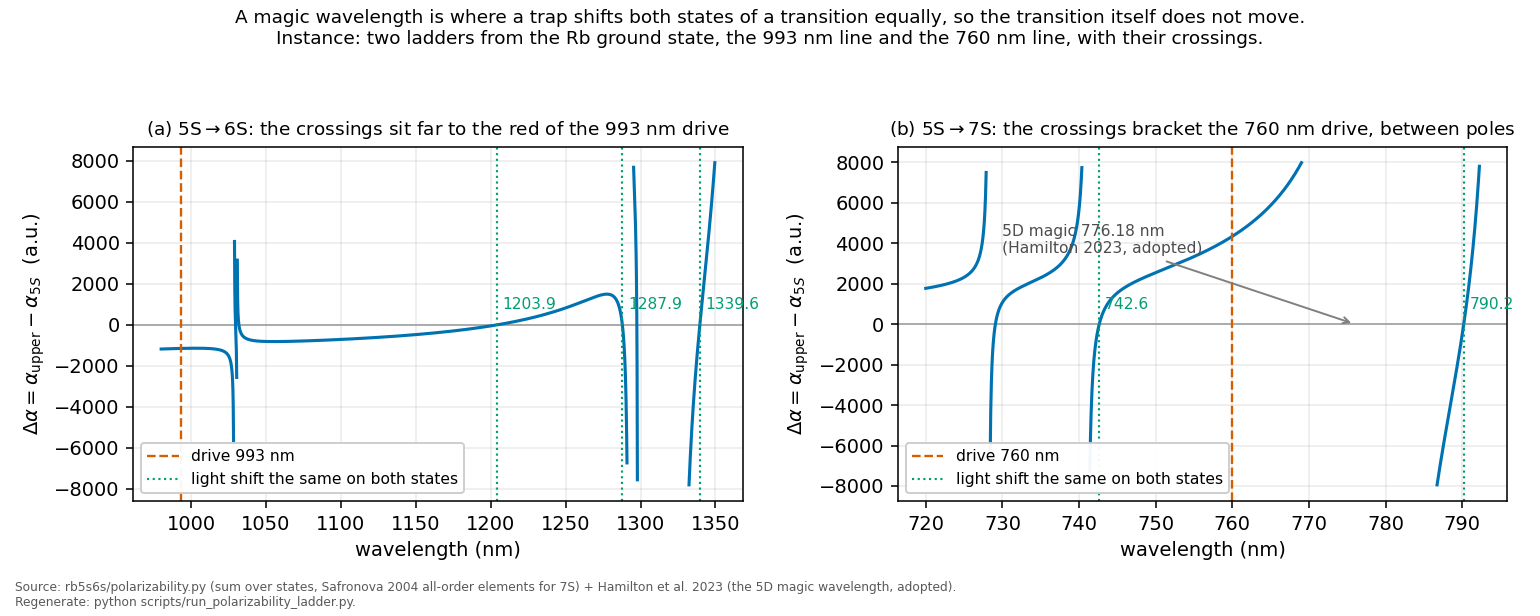
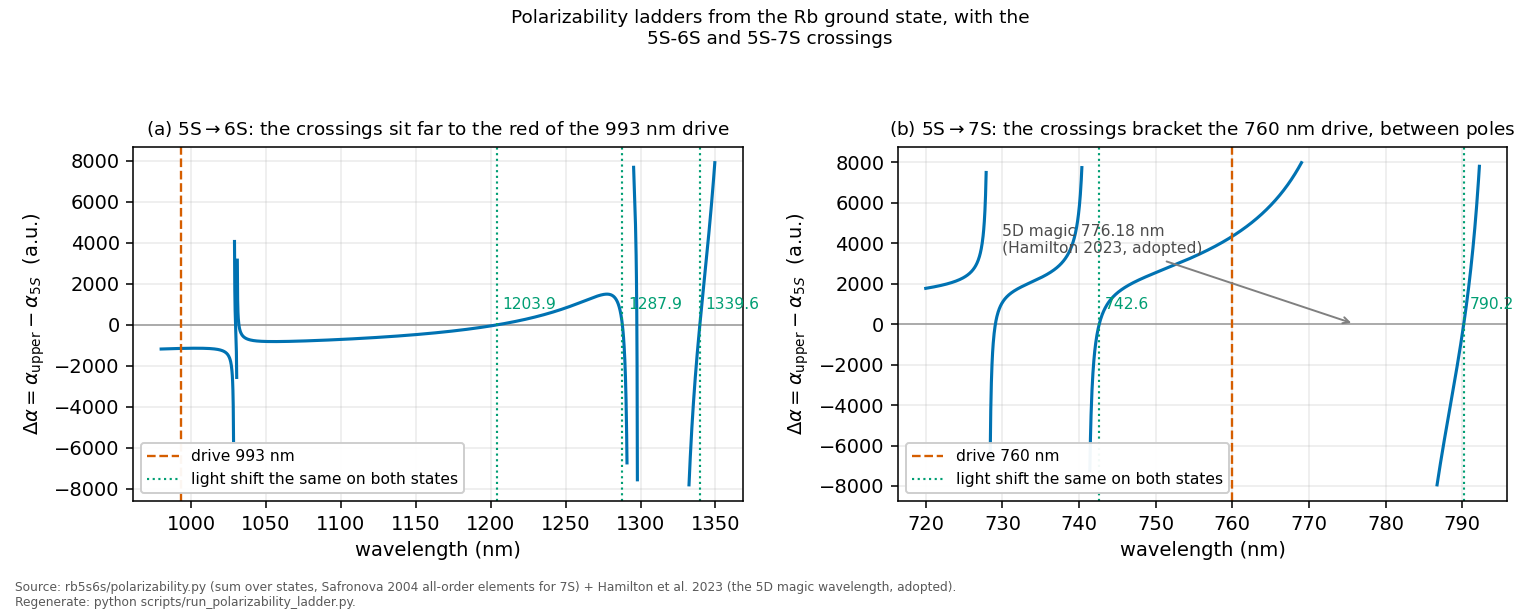
Write the night's lessons into the rules that enforce them
Every finding of the last two days that could return is now either a guard or a
line in the style guide, because the one rule that failed hardest this week was
already written down and simply not kept.

The style guide gains the measured GitHub maths rule, which replaces a sentence
saying that inline maths renders inconsistently. It does not render
inconsistently. It renders unless the delimiter touches a letter or a digit,
which was established by rendering probe documents through GitHub's own
markdown endpoint. The guide also gains the rule that a quotation is never
altered to satisfy a rendering rule, and the warning that matplotlib mathtext
is not markdown, since applying the one rule to the other would break every
unit on every axis.

It gains a figures section: an axis label is a quantity and a unit, a title
states what is plotted rather than what it proves, the caveat moves to the
caption and has to arrive there, a caption asserts only what its panels draw,
and a figure is redrawn only in a tree whose results are clean.

The guide also stopped contradicting itself. It listed the em-dash as approved
Unicode while the prose ratchet forbids it, and used thirteen of them while
telling the reader not to. It now uses none, and its recorded budget falls from
thirteen to three.

tests/test_figure_register.py gains the label rule as a check rather than a
sentence: an axis label over sixty-two characters, a title over a hundred and
[…]

Changed region(s): [[0.1558, 0.0, 0.8416, 0.0925]]

diff --git a/tests/test_figure_register.py b/tests/test_figure_register.py
@@ -242,3 +242,71 @@ def test_footer_helper_is_the_only_provenance_route(target):
             stray.append(f"{target.name}:{node.lineno}: fig.text(...) carries a "
                          "regenerate line outside _footer(...)")
     assert not stray, "\n  ".join(stray)
+
+
+# --------------------------------------------------------------------------
+# An axis label is a quantity and a unit (protocol section 12.1)
+# --------------------------------------------------------------------------
+# The census of 2026-08-09 found 156 of 235 label strings carrying caption
+# material: one x label read "beam waist (um). This has not been measured. The
+# knife-edge scan is pending.", five residual axes read "residual, in units of
+# the point error", and one suptitle ran to seven lines and argued its own
+# conclusion. The rule had been written in the protocol for months and was not
+# kept, which is why it is a test now. Titles are held to a longer limit than
+# axis labels, because a title may name the conditions.
+_AXIS_SETTERS = {"set_xlabel", "set_ylabel"}
+_TITLE_SETTERS = {"set_title", "suptitle"}
+_AXIS_MAX = 62
+_TITLE_MAX = 110
+# A sentence inside a label: a full stop or a semicolon followed by a space and
+# a word. The lookbehind keeps a decimal out of it, which matters because an
+# f-string flattens "993.{pk} nm" to "993. nm" and that is a wavelength, not a
+# sentence. Found by this guard's own first run.
+_LABEL_SENTENCE = re.compile(r"(?<!\d)[.;]\s+[A-Za-z]")
+# Words that state a status, a judgement or an argument rather than a quantity.
+_LABEL_PROSE = [
+    r"\bnot been measured\b", r"\bis pending\b", r"\bin units of\b",
+    r"\bremains open\b", r"\bmeasured directly\b", r"\bconservative\b",
+    r"\bupper bounds?\b", r"\brather than\b", r"\bwhich is\b",
+    r"\bso that\b", r"\bbecause\b",
+]
+
+
+def _label_calls(tree: ast.AST):
+    """Yields (attr, literal, lineno) for every axis-label and title call."""
+    for node in ast.walk(tree):
+        if not (isinstance(node, ast.Call) and isinstance(node.func, ast.Attribute)):
+            continue
+        attr = node.func.attr
+        if attr not in _AXIS_SETTERS | _TITLE_SETTERS:
+            continue
+        for arg in node.args[:1]:
+            if isinstance(arg, ast.Constant) and isinstance(arg.value, str):
+                yield attr, arg.value, arg.lineno
+            elif isinstance(arg, ast.JoinedStr):
+                lit = "".join(v.value for v in arg.values
+                              if isinstance(v, ast.Constant)
+                              and isinstance(v.value, str))
+                yield attr, lit, arg.lineno
+
+
+@pytest.mark.parametrize("target", TARGETS, ids=lambda p: p.name)
+def test_axis_labels_are_a_quantity_and_a_unit(target):
+    tree = ast.parse(target.read_text(encoding="utf-8"), filename=str(target))
+    bad = []
+    for attr, lit, ln in _label_calls(tree):
+        flat = " ".join(lit.split())
+        limit = _AXIS_MAX if attr in _AXIS_SETTERS else _TITLE_MAX
+        if len(flat) > limit:
+            bad.append(f"{target.name}:{ln}: {attr} is {len(flat)} characters, "
+                       f"over {limit}: {flat[:70]!r}. An axis label is a "
+                       f"quantity and a unit. The rest belongs in the caption "
+                       f"of the document that shows the figure.")
+        if attr in _AXIS_SETTERS and _LABEL_SENTENCE.search(flat):
+            bad.append(f"{target.name}:{ln}: {attr} contains a sentence: "
+                       f"{flat[:70]!r}. Caveats go in the caption.")
+        for pat in _LABEL_PROSE:
+            if re.search(pat, flat, re.I):
+                bad.append(f"{target.name}:{ln}: {attr} carries prose "
+                           f"({pat}): {flat[:70]!r}")
+    assert not bad, "figure labels carrying caption material:\n  " + "\n  ".join(bad)

diff --git a/scripts/make_figures.py b/scripts/make_figures.py
@@ -816,6 +816,17 @@ def fig_ruler():
     figure bug: the figure is skipped, the census is printed, and
     tests/test_ruler.py::test_fig8_candidate_set_is_not_empty says so out
     loud."""
+    # This panel rebuilds a block law from the raw traces, which travel with
+    # the working record rather than with every checkout. Without them the
+    # loader used to raise FileNotFoundError from inside the block rebuild,
+    # which killed the whole run and left every figure after this one in
+    # main()'s order undrawn. Since the footer on every figure tells a reader
+    # to run this script, that traceback was the first thing a fresh clone saw.
+    # Skip the way fig13 skips its photograph, and keep the committed PNG.
+    if not (C.DATA_RAW_DIR / "rulers_p").is_dir():
+        print("  (raw ruler traces not in this checkout, keeping the "
+              "existing fig8 PNG)")
+        return
     from rb5s6s.ruler import _comb, TEETH
 
     def _sixth(r):
@@ -1039,8 +1050,8 @@ def fig_degeneracy_vs_observable():
     ax1.text(gg[-1], 0.02, "unphysical below", fontsize=6, color="0.3",
              ha="right", va="bottom")
     ax1.set_ylim(min(-0.25, ss[0]), ss[-1])
-    ax1.set_title("(a) the fitted collisional and laser FWHM, with one-sigma\n"
-                  "ellipses, over grey contours of constant total FWHM in MHz",
+    ax1.set_title("(a) fitted collisional and laser FWHM, one-sigma ellipses\n"
+                  "over contours of constant total FWHM (MHz)",
                   fontsize=8.5)
     ax1.legend(fontsize=7, framealpha=1.0, frameon=True)
     ax1.grid(alpha=0.25, lw=0.5)
@@ -1691,8 +1702,8 @@ def fig_drift_story():
         ax.axvline(tk, color="0.55", lw=0.7, alpha=0.6)
     ax.set_xlabel("time (min)")
     ax.set_ylabel("laser detuning (MHz)")
-    ax.set_title("(a) the laser frequency during the 2025-06-11 preliminary session,\n"
-                 "digitised from a photograph of the wavemeter display",
+    ax.set_title("(a) laser frequency, 2025-06-11 preliminary session,\n"
+                 "digitised from the wavemeter display",
                  fontsize=9)
     ax.legend(fontsize=7, loc="lower right", framealpha=1.0, frameon=True)
 
@@ -1765,8 +1776,8 @@ def fig_drift_story():
     ins.patch.set_alpha(0.95)
     ax.set_xlabel("time into campaign (h)")
     ax.set_ylabel("laser detuning (MHz)", fontsize=8.5)
-    ax.set_title("(b) line centre within each oscilloscope window setting, through\n"
-                 "the campaign, reconstructed from its own traces",
+    ax.set_title("(b) line centre per oscilloscope window setting,\n"
+                 "reconstructed across the campaign",
                  fontsize=9)
     # The opaque legend used to cut the tops off the very bars its first entry
     # describes: the scan ramps reach the top of the autoscaled panel wherever
@@ -2362,6 +2373,14 @@ def fig_width_trends():
     if not (manifest_fp.exists() and ruler_fp.exists() and probe_fp.exists()
             and pw_fp.exists() and stark_fp.exists()):
         print("  (a source file for fig19 is absent -- skipping)")
+        return
+    # The left panel reproduces the headline estimator from the raw contiguous
+    # widths, so it needs the traces themselves and not only the CSVs above.
+    # Checking the CSVs alone let this raise FileNotFoundError out of the probe
+    # in a checkout without them, which ended the run.
+    if not (C.DATA_RAW_DIR / "t_sweep").is_dir():
+        print("  (raw traces not in this checkout, keeping the existing "
+              "fig19 PNG)")
         return
 
     from rb5s6s.stark import _fwhm_of

diff --git a/scripts/run_polarizability_ladder.py b/scripts/run_polarizability_ladder.py
@@ -149,10 +149,8 @@ def main() -> None:
     axes[1].annotate("5D magic 776.18 nm\n(Hamilton 2023, adopted)", (776, 0),
                      xytext=(730, 3500), fontsize=8, color="0.3",
                      arrowprops=dict(arrowstyle="->", color="0.5"))
-    fig.suptitle("A magic wavelength is where a trap shifts both states of a "
-                 "transition equally, so the transition itself does not move.\n"
-                 "Instance: two ladders from the Rb ground state, the 993 nm "
-                 "line and the 760 nm line, with their crossings.",
+    fig.suptitle("Polarizability ladders from the Rb ground state, with the\n"
+                 "5S-6S and 5S-7S crossings",
                  fontsize=9.5, y=0.985)
     fig.tight_layout(rect=(0, 0.055, 1, 0.945))
     _footer(fig, "Source: rb5s6s/polarizability.py (sum over states, Safronova 2004 "

diff --git a/docs/STYLE.md b/docs/STYLE.md
@@ -12,12 +12,12 @@ data support. `tests/test_repo_hygiene.py` enforces the mechanical ones.
   ESTABLISHED / ENVELOPE / OPEN / DESCOPED).
 - **Proposed work is written as proposed.** No session, campaign, or paper in
   this repository is scheduled or agreed. Use "a proposed session", "would
-  measure", "if run" — never "the session will" or a present-tense outcome
+  measure", "if run". Never "the session will" or a present-tense outcome
   ("converts the bounds into measurements"). A reader must never be able to
   mistake a plan for a commitment.
 - **Conditional predictions name their condition.** If a result depends on an
   unmeasured parameter, the sentence that states the result states the
-  dependency and the threshold — see the g1 sign-flip discussion in PLAN §6
+  dependency and the threshold. See the g1 sign-flip discussion in PLAN §6
   #4, which is conditional on a collection geometry that has not been measured.
 - **Numbers live in one place.** Headline values are generated from the
   committed CSVs; prose quotes them, never restates them independently.
@@ -28,7 +28,7 @@ data support. `tests/test_repo_hygiene.py` enforces the mechanical ones.
 
 Plain declarative prose. State the finding and stop.
 
-Avoid the self-assessing register — sentences that comment on the work's own
+Avoid the self-assessing register, meaning sentences that comment on the work's own
 virtue rather than reporting a result. In particular avoid "X is itself a
 result", "not a hedge but the point", "the honest headline", "a test passed,
 not a tuning". They read as advocacy, and a reader who has to be told a result
@@ -40,14 +40,14 @@ distinctions and should stay.
 
 ## People
 
-Name people in **citation context only** — cite via `docs/lit/<citekey>.md`.
+Name people in **citation context only**, citing via `docs/lit/<citekey>.md`.
 
 Do not assign colleagues roles in published documents ("X must be able to take
 over", "ask X", "lead on the fibre side"). Roles are for the people involved to
 agree between themselves; a public repository is not the place to announce
 them. Write "a new operator", "the group", "an external theory check".
 
-## Generated files — edit the generator, not the output
+## Generated files: edit the generator, not the output
 
 | File | Generator |
 |---|---|
@@ -59,25 +59,72 @@ Editing these directly is lost on the next run, and the freshness tests fail.
 
 ## Markdown and maths
 
-- **Unicode in prose and in YAML frontmatter** — ⁸⁷Rb, 5S₁/₂, µm, →, —.
-  GitHub renders `$…$` inline maths inconsistently and shows it raw inside
-  frontmatter tables, so LaTeX belongs only in display maths (`$$…$$`) and in
+- **Unicode in prose and in YAML frontmatter.** ⁸⁷Rb, 5S₁/₂, µm, →, ±, ×, ≈,
+  ⁻³. Not the em-dash, which this guide forbids below and which
+  `tests/test_prose_style_ratchet.py` holds to a falling budget.
+- **Why inline LaTeX is the exception and not the rule, measured rather than
+  asserted.** GitHub opens an inline `$…$` span only when the opening delimiter
+  follows a line start, whitespace, `(` or `**`, and closes it only when the
+  next character is not a letter or a digit. So ` $w_0$ ` renders and
+  `cm$^{-3}$`, `2.92$\times$syst` and `$\pm$0.0043` are left on the page as
+  raw source. The rule is undocumented by GitHub and was established by
+  rendering probe documents through its own markdown endpoint on 2026-08-09,
+  which found 203 such spans in this repository. A second cause is independent:
+  `<` or `>` inside mathematics is escaped to an HTML entity before the maths is
+  read, so it can never render. Both are enforced by
+  `tests/test_docs_math_render.py`. Prefer Unicode for a single symbol, which is
+  what `docs/CLAIMS.md` does throughout, and keep LaTeX for display maths and
   bibliographic fields.
+- **A quotation is never altered to satisfy a rendering rule.** Where a quoted
+  symbol cannot render, the platform loses rather than the quote. The maths
+  guard exempts the span whose delimiter touches the quotation mark on a
+  verbatim line, and nothing else on that line.
+- **matplotlib mathtext is not markdown.** Inside a figure label `$10^{12}$cm$^{-3}$`
+  is correct and renders. The adjacency rule above is a GitHub rule and applies
+  to documents only. Applying it to a label would break every unit on every axis.
 - **LaTeX stays in bibliographic fields.** `title:` and `pages:` in
   `docs/lit/*.md` keep publisher/BibTeX form (`{Rb}`, `$6S_{1/2}$`,
   `855--865`) because they feed `references.bib`. Author names use Unicode
-  accents (Síle, Bordé, Wcisło) — safe for modern LaTeX and correct on the page.
-- **No thin-space macros** (`\,`, `\;`, `\!`) in Markdown maths — GitHub's
+  accents (Síle, Bordé, Wcisło), which modern LaTeX takes and which are
+  correct on the page.
+- **No thin-space macros** (`\,`, `\;`, `\!`) in Markdown maths. GitHub's
   renderer eats the backslash. `tests/test_docs_math_render.py` catches these.
 - **Quote arXiv IDs** in YAML (`arxiv: '2201.06000'`), or a trailing zero is
   lost to float parsing.
+
+## Figures
+
+- **An axis label is a quantity and a unit.** Not a sentence, not a caveat, not
+  a status and not an argument. One x label read "beam waist (µm). This has not
+  been measured. The knife-edge scan is pending." and five residual axes read
+  "residual, in units of the point error". A census on 2026-08-09 found 156 of
+  235 label strings defective in that way.
+- **Every frequency axis says which frequency it carries**, the laser one or
+  the two-photon one, in those words. Every width axis says FWHM. Every density
+  axis uses one form of the unit.
+- **A title states what is plotted**, not what it proves. The conclusion belongs
+  in the caption.
+- **The caveat moves to the caption of the document that references the figure**,
+  and it must actually arrive there. Deleting it from the canvas without placing
+  it loses information the reader needs.
+- **A caption asserts only what its panels draw.** The first caption written for
+  the pooled-width figure described a different analysis, and reading the image
+  is what caught it.
+- **The provenance footer is a contract, not prose.** It may carry file paths and
+  pipeline vocabulary because it exists for reproducibility.
+  `tests/test_figure_register.py` documents this and polices everything else
+  drawn on the canvas.
+- **Redraw only where `results/` is clean.** The figure fingerprint reads the
+  working tree, so drawing while another session holds uncommitted CSVs stamps
+  its numbers into a published PNG. Use a detached worktree at HEAD and confirm
+  the fingerprint matches the tree you are publishing from.
 
 ## Private material
 
 Correspondence and personal documents (CV, letters, briefs, reviewer notes)
 live in the working tree but are never committed. `.gitignore` carries generic
 patterns for them, and `tests/test_repo_hygiene.py` fails if a matching path
-ever becomes tracked. Do not rely on `.git/info/exclude` — it is local to one
+ever becomes tracked. Do not rely on `.git/info/exclude`, which is local to one
 clone and does not survive a fresh checkout elsewhere.
 
 ## Commits
